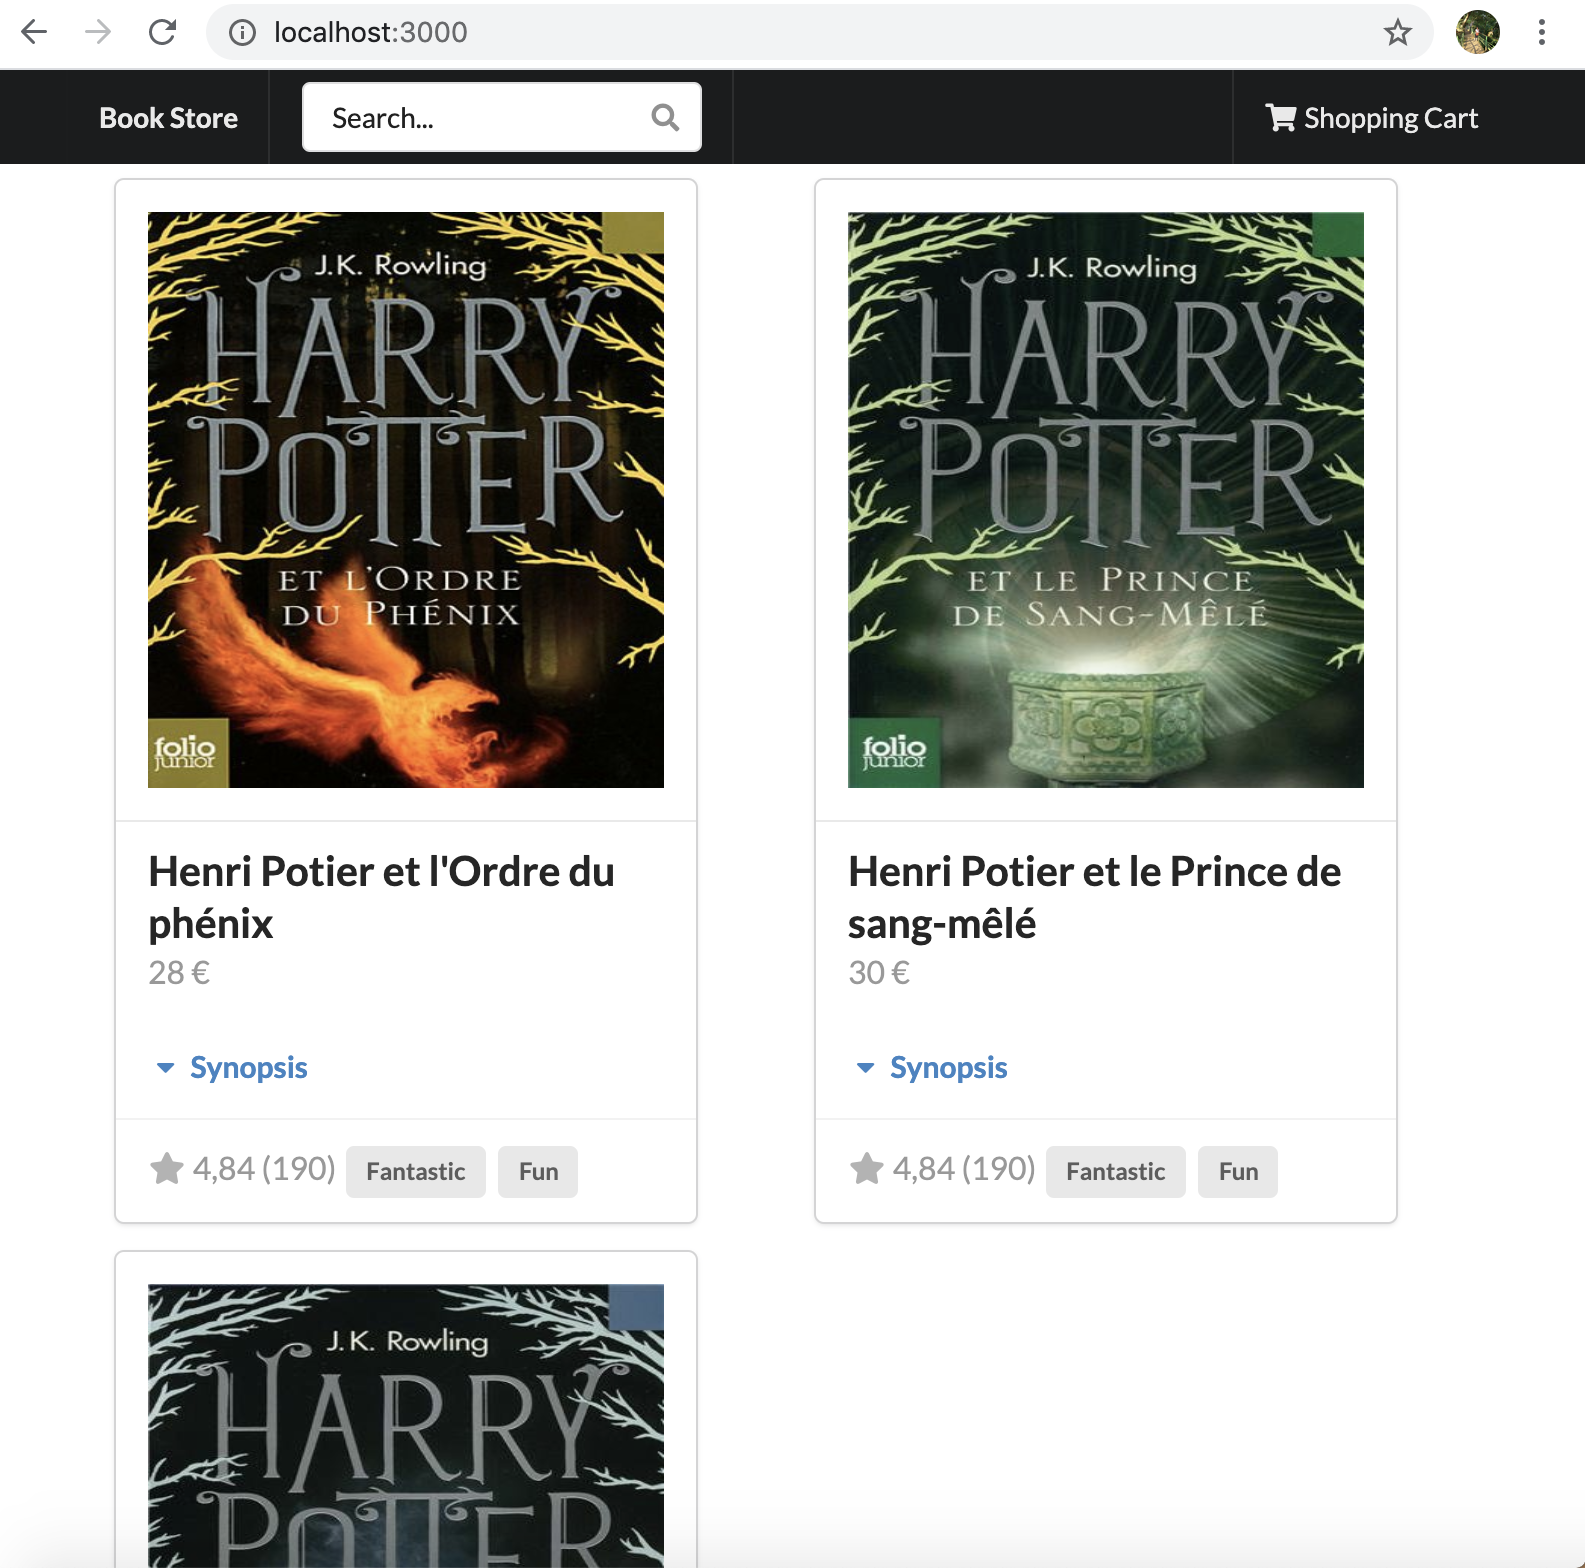
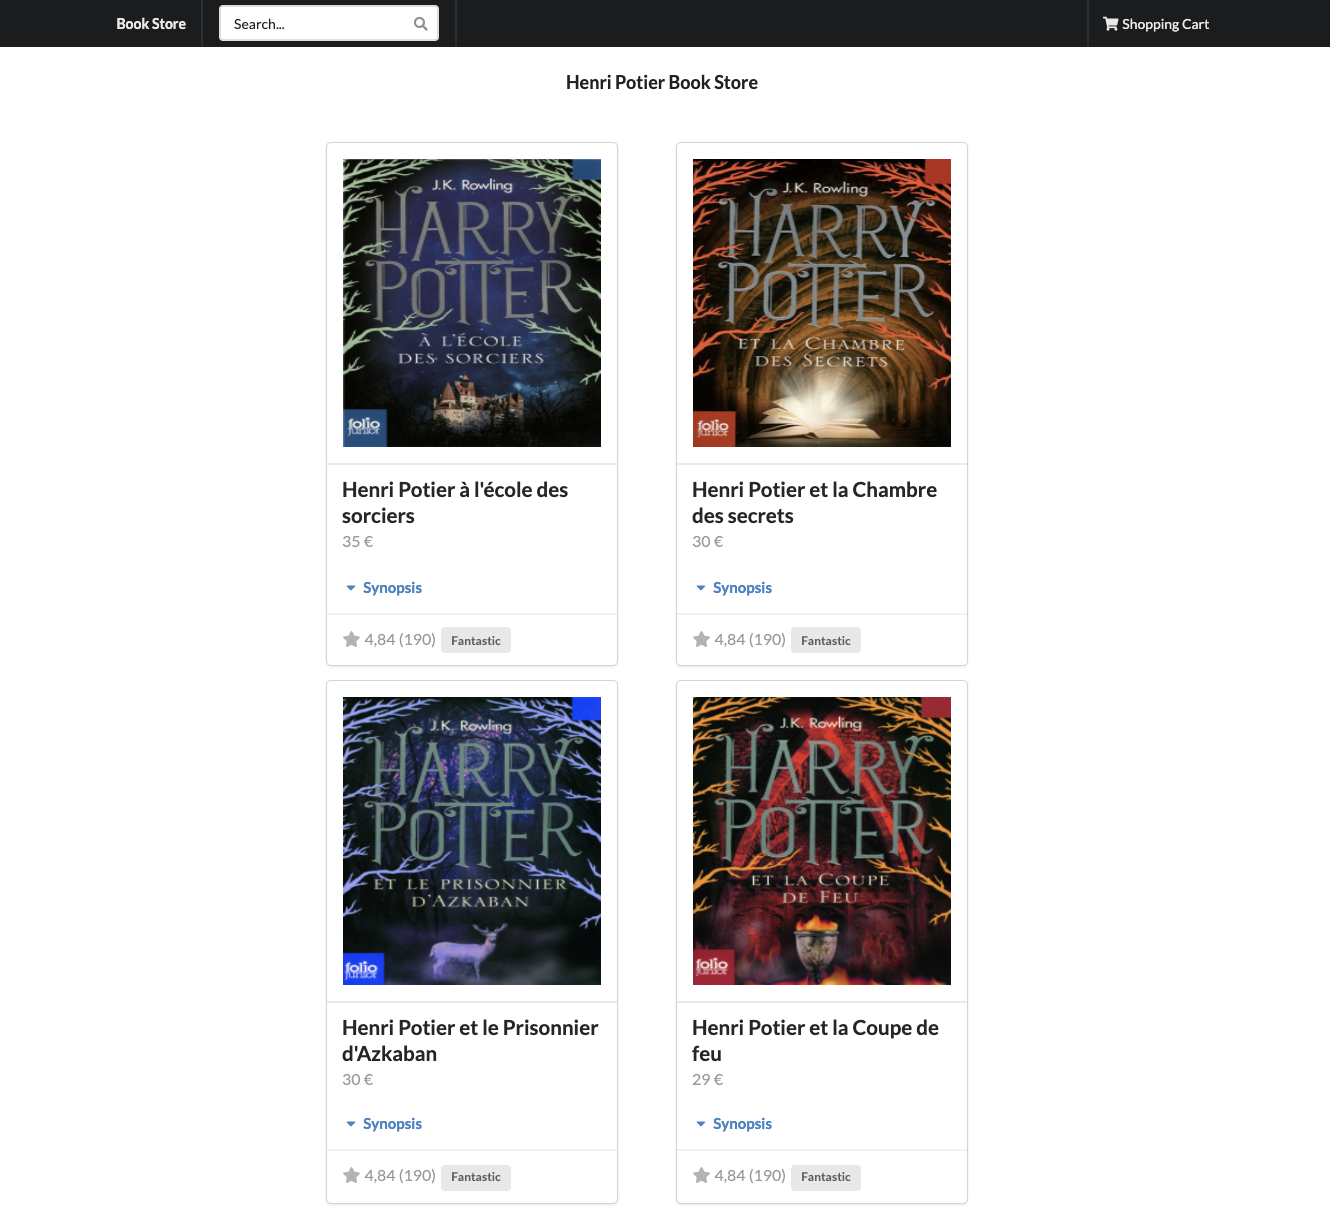
E-commerce platform to sell books

diff --git a/src/components/BookCard.js b/src/components/BookCard.js
@@ -9,9 +9,6 @@ const extra = (
     <Label style={{ marginLeft: "5px" }}>
       Fantastic
     </Label>
-    <Label style={{ marginLeft: "5px" }}>
-      Fun
-    </Label>
   </React.Fragment>
 );
 
